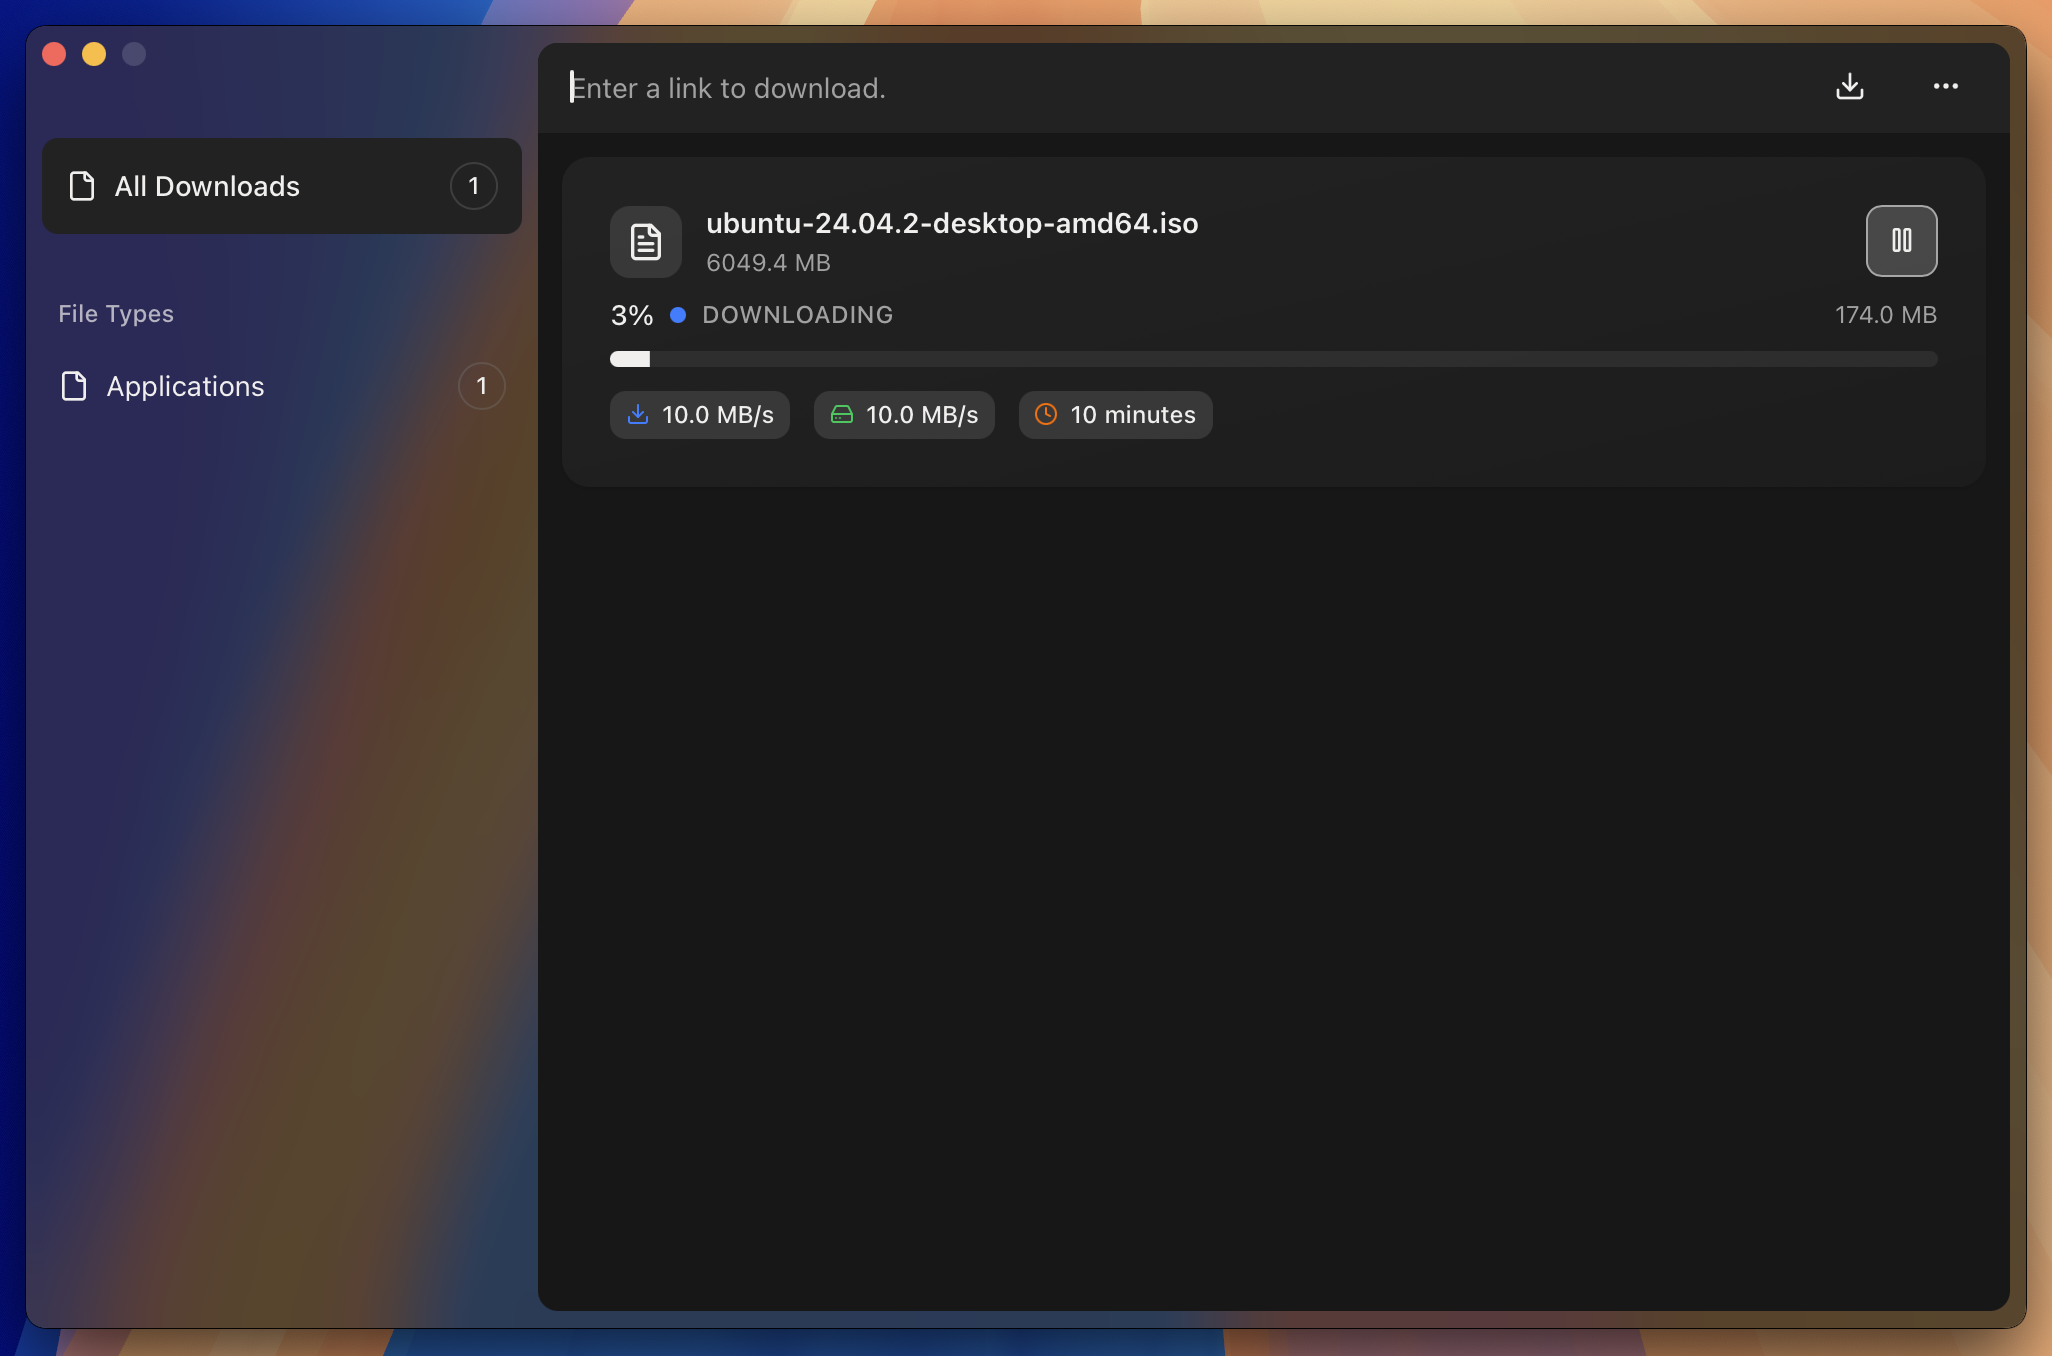
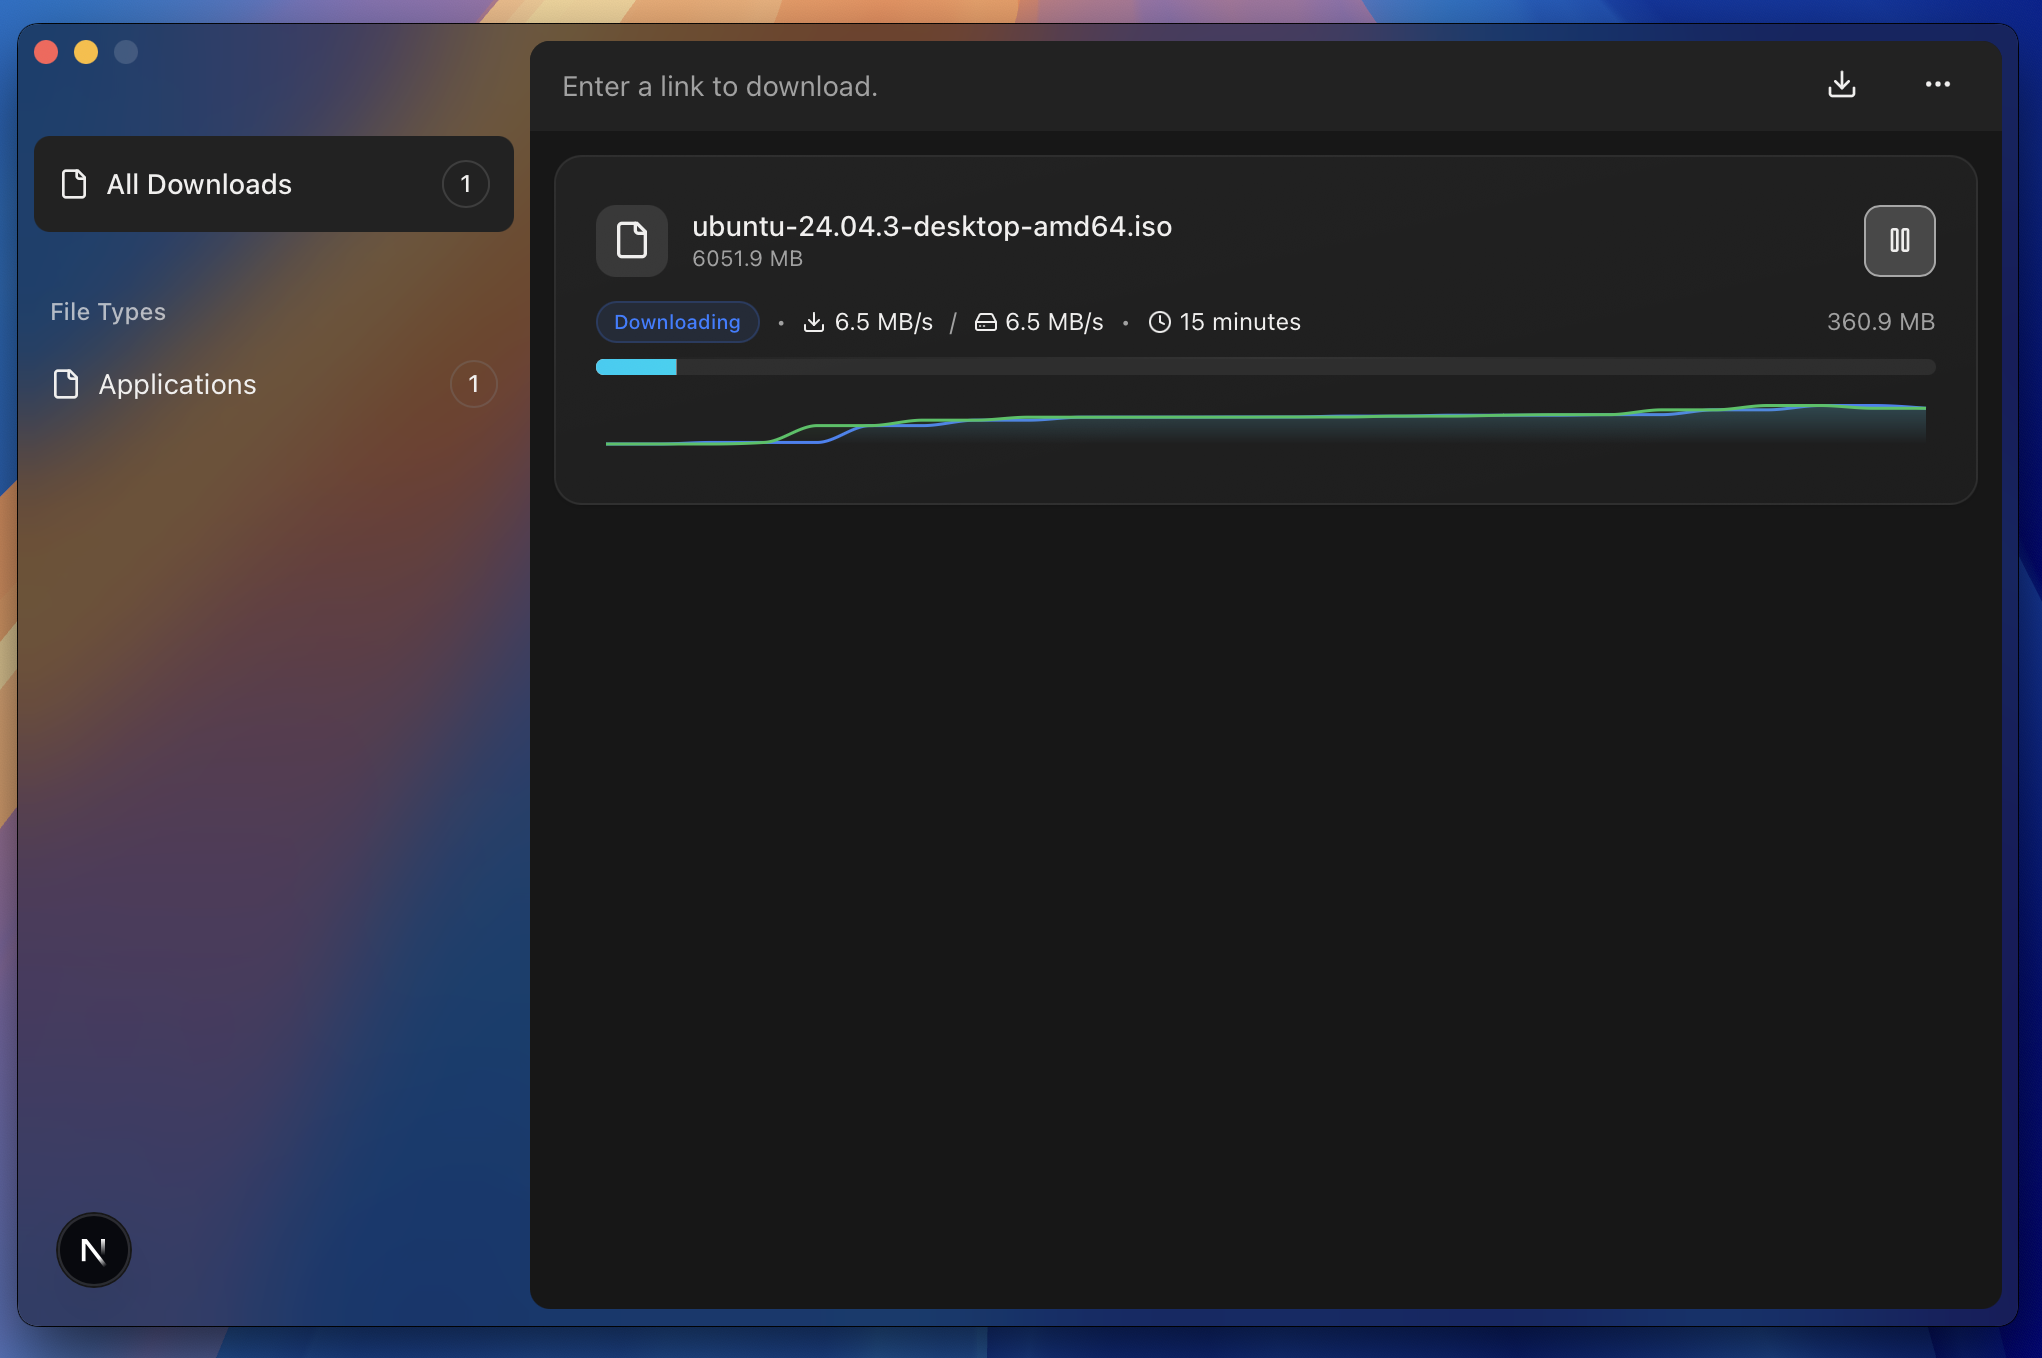
docs: update README with enhanced descriptions, installation instructions, and new architecture details; replace screenshot

Changed region(s): [[0.0, 0.0, 1.0, 1.0], [0.3702, 0.0, 0.4319, 0.031]]

diff --git a/README.md b/README.md
@@ -1,36 +1,85 @@
 <p align="center">
-  <img src="./assets/logo.png" alt="Ferrix app UI" width="128"/>
+  <img src="./assets/logo.png" alt="Ferrix Logo" width="128"/>
 </p>
 
-# Ferrix 🦀 ⬇
+<h1 align="center">Ferrix 🦀 ⬇</h1>
 
-**Ferrix** is a modern, fast, and extensible download manager built with **Rust** and **Tauri**.  
-It features resumable chunked downloads, a sleek web-based UI, and a modular architecture — all designed to handle real-world network instability like a pro.
+<p align="center">
+  <b>A blazing-fast, crash-resistant, and extensible download manager built with Rust + Tauri.</b>
+</p>
 
-![Ferrix Screenshot](./assets/screenshot.png)
+<p align="center">
+  <a href="https://github.com/mehranTaslimi/Ferrix/releases">
+    <img src="https://img.shields.io/github/v/release/mehranTaslimi/Ferrix" alt="Release">
+  </a>
+  <a href="https://github.com/mehranTaslimi/Ferrix/stargazers">
+    <img src="https://img.shields.io/github/stars/mehranTaslimi/Ferrix" alt="Stars">
+  </a>
+  <a href="https://github.com/mehranTaslimi/Ferrix/issues">
+    <img src="https://img.shields.io/github/issues/mehranTaslimi/Ferrix" alt="Issues">
+  </a>
+  <a href="LICENSE">
+    <img src="https://img.shields.io/github/license/mehranTaslimi/Ferrix" alt="License">
+  </a>
+</p>
 
 ---
 
-## Features
+## 🚀 Features
 
-- ✅ **Parallel & Chunked Downloads** – download files faster, chunk by chunk
-- 🔁 **Resumable Downloads** – even after crashes or restarts
-- 🌐 **Proxy Support** – HTTP/SOCKS5 proxies supported
-- 🛠 **Automatic Retry & Resume** – smart handling of connection failures
-- 🧠 **Pluggable Architecture** – designed for future extensions (e.g., BitTorrent, plugins)
-- 🖥 **Cross-platform UI** – clean, responsive, and native-feeling UI with Tauri + TailwindCSS
+- ⚡ **Parallel & Chunked Downloads** – maximize bandwidth with multi-threaded chunks
+- 🔄 **Resumable Downloads** – pick up exactly where you left off, even after crashes
+- 🌍 **Proxy Support** – HTTP/SOCKS5 proxies for privacy and flexibility
+- 🛡 **Crash Safety + Data Integrity** – database-backed progress tracking
+- ♻ **Automatic Retry** – smart reconnection with exponential backoff
+- 🔌 **Modular Architecture** – future-ready for BitTorrent, plugins, and extensions
+- 🖥 **Cross-Platform UI** – minimal, modern interface built with Tauri + TailwindCSS
 
 ---
 
-## Installation
+## 📦 Installation
 
-> **Currently in active development. Not yet released as an installer.**
+Download the latest version of Ferrix for your operating system from the **[Releases](https://github.com/mehranTaslimi/Ferrix/releases)** page.
 
-To build Ferrix locally:
+1. Go to the [Releases page](https://github.com/mehranTaslimi/Ferrix/releases).
+2. Find the latest release at the top.
+3. Download the installer or archive for your platform:
+   - **Windows** – `.msi` or `.exe`
+   - **macOS** – `.dmg`
+   - **Linux** – `.AppImage` or `.deb`
+4. Install and run Ferrix 🚀
+
+---
+
+## 🛠 Build from Source
 
 ```bash
+# Clone the repo
 git clone https://github.com/mehranTaslimi/Ferrix.git
 cd Ferrix
+
+# Install frontend dependencies
 pnpm install
-cargo tauri dev
+
+# Run development mode
+pnpm dev:all
 ```
+
+---
+
+## 📸 Screenshots
+
+<p align="center">
+  <img src="./assets/screenshot.png" width="700" alt="Ferrix UI Screenshot"/>
+</p>
+
+---
+
+## 🏗 Architecture
+
+Ferrix is built with a modern, modular architecture:
+
+- **Rust** + **Tokio** – high-performance, memory-safe backend with powerful async networking
+- **Tauri** – secure & lightweight cross-platform desktop framework
+- **Next.js** + **ShadCN UI** – fast, component-driven frontend with beautiful and consistent design
+- **SQLite** – reliable, crash-safe database for download progress tracking
